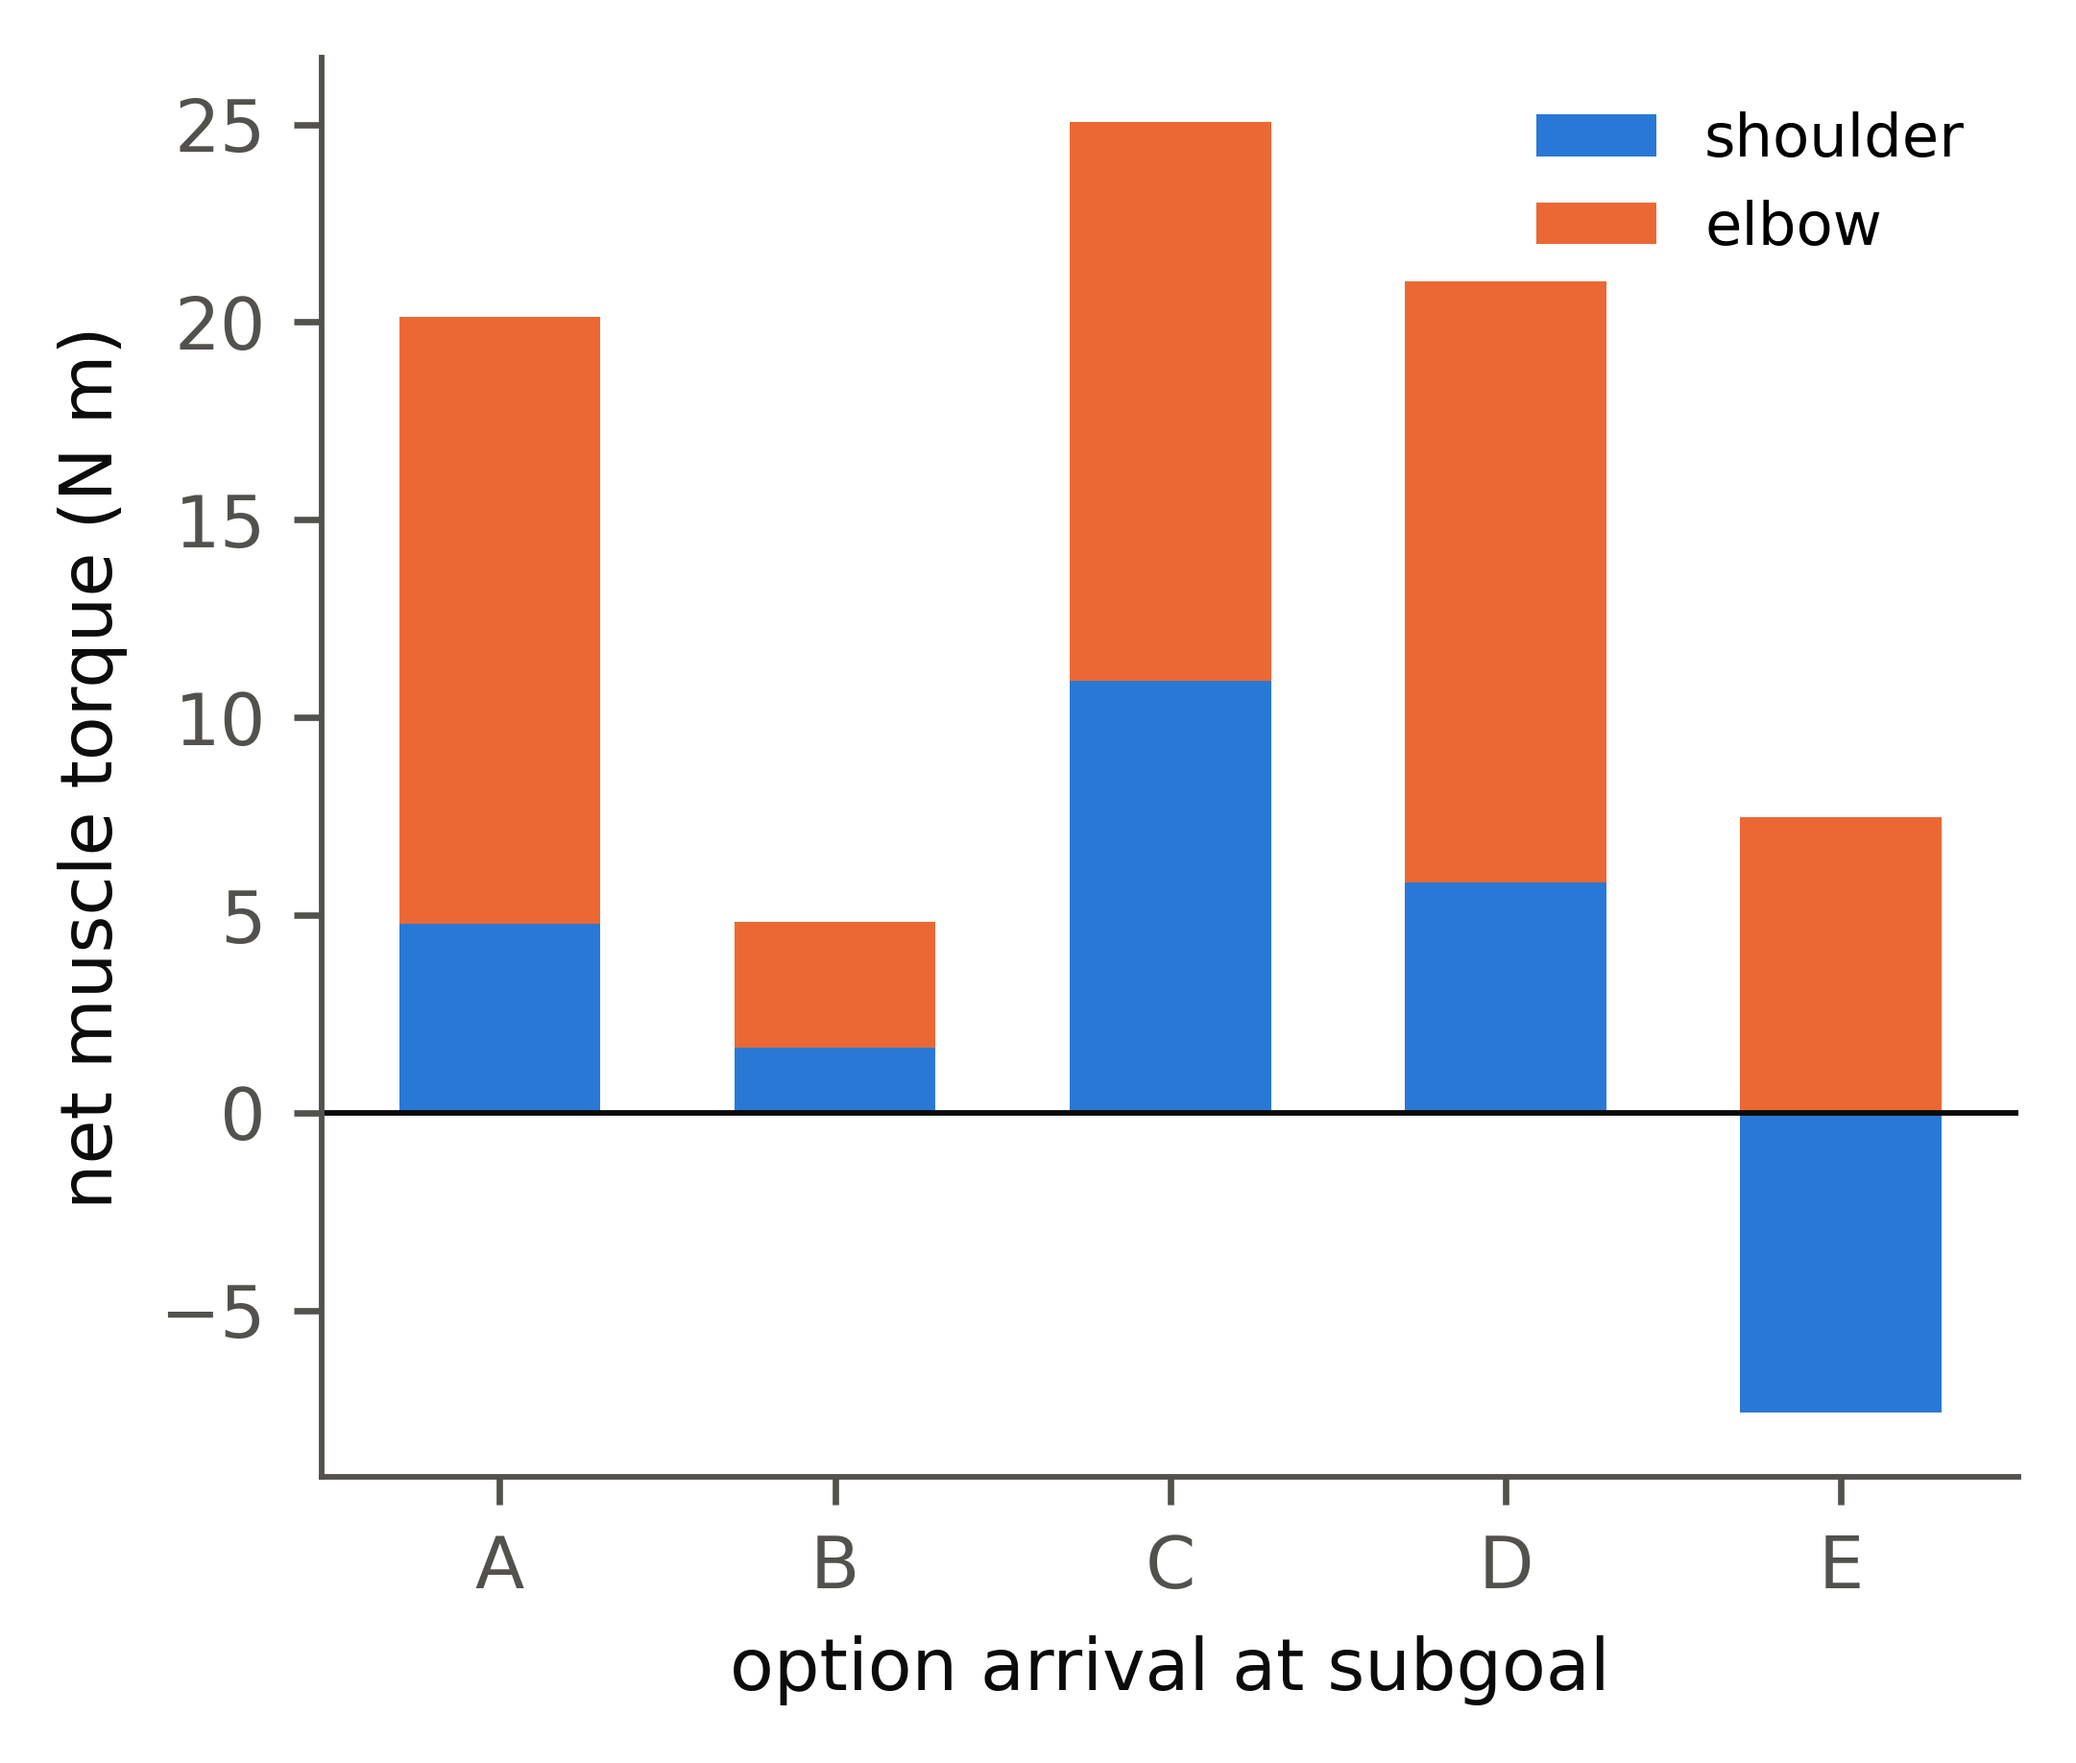
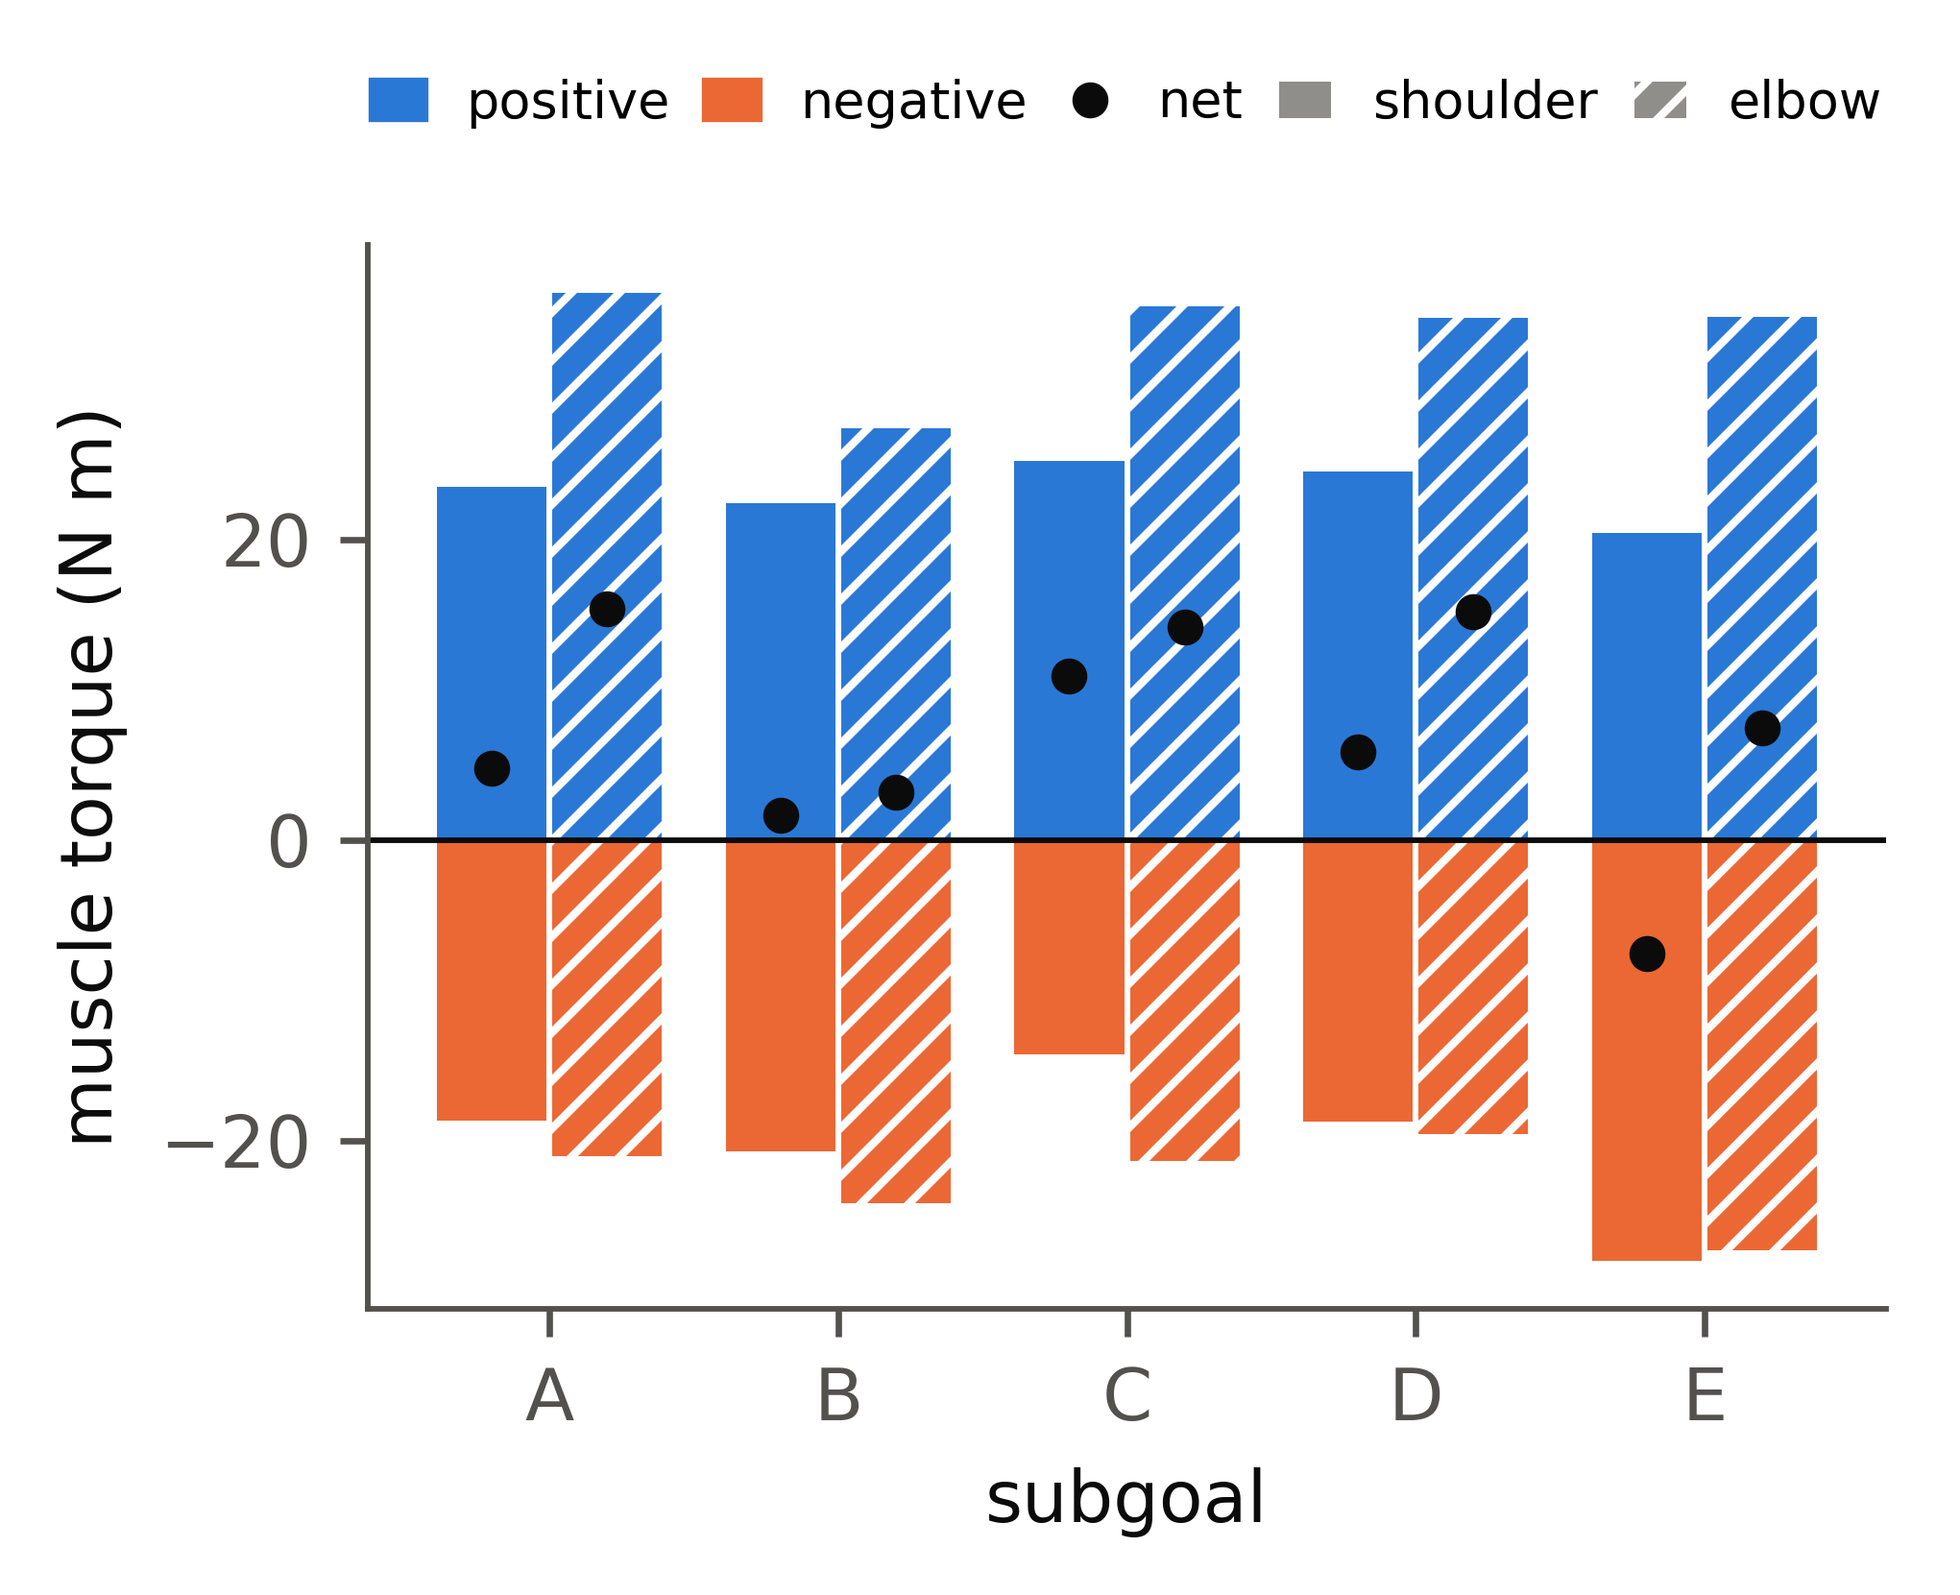
added new torque pictures

diff --git a/scripts/make_figures.py b/scripts/make_figures.py
@@ -133,7 +133,7 @@ def fig_subgoal_torque():
             ax.plot(i, torque[n]['net'][j], 'o', color=INK, ms=4.5, zorder=4, label='net muscle torque' if i == 0 else None)
         ax.axhline(0, color=INK, lw=.7)
         ax.set_xticks(range(len(names)), names)
-        ax.set_xlabel('option arrival at subgoal')
+        ax.set_xlabel('subgoal')
         ax.set_title(joint, fontsize=9)
     axes[0].set_ylabel('muscle torque (N m)')
     handles, labels = axes[0].get_legend_handles_labels()
@@ -145,16 +145,46 @@ def fig_subgoal_torque():
 def fig_subgoal_net_torque():
     torque = muscles['torque']
     names = list(torque)
-    shoulder, elbow = np.array([torque[n]['net'] for n in names]).T
-    fig, ax = plt.subplots(figsize=(3.8, 3.2))
-    ax.bar(names, shoulder, .6, color=BLUE, label='shoulder')
-    # stack elbow on shoulder only when signs match, else from zero, so negative parts stay below the axis
-    ax.bar(names, elbow, .6, bottom=np.where(np.sign(shoulder) == np.sign(elbow), shoulder, 0), color=ORANGE, label='elbow')
+    x = np.arange(len(names))
+    fig, ax = plt.subplots(figsize=(3.4, 2.4))
+    for j, (dx, hatch) in enumerate(((-.2, None), (.2, '////'))):
+        get = lambda k: np.array([torque[n][k][j] for n in names])
+        ax.bar(x + dx, get('positive'), .38, color=BLUE, hatch=hatch, edgecolor='white', lw=0)
+        ax.bar(x + dx, get('negative'), .38, color=ORANGE, hatch=hatch, edgecolor='white', lw=0)
+        ax.plot(x + dx, get('net'), 'o', color=INK, ms=3.5, zorder=4)
     ax.axhline(0, color=INK, lw=.7)
-    ax.set_xlabel('option arrival at subgoal')
-    ax.set_ylabel('net muscle torque (N m)')
-    ax.legend(fontsize=7.5)
+    ax.set_xticks(x, names)
+    ax.set_xlabel('subgoal')
+    ax.set_ylabel('muscle torque (N m)')
+    handles = [plt.Rectangle((0, 0), 1, 1, color=BLUE), plt.Rectangle((0, 0), 1, 1, color=ORANGE),
+               plt.Line2D([], [], marker='o', color=INK, ls='', ms=3.5),
+               plt.Rectangle((0, 0), 1, 1, fc=GREY), plt.Rectangle((0, 0), 1, 1, fc=GREY, hatch='////', ec='white', lw=0)]
+    ax.legend(handles, ['positive', 'negative', 'net', 'shoulder', 'elbow'], loc='upper center', bbox_to_anchor=(.5, 1.2),
+              ncol=5, fontsize=6.5, handlelength=1, columnspacing=.7)
     save(fig, 'subgoal_net_torque')
+
+
+def fig_torque_cancellation():
+    torque = muscles['torque']
+    names = list(torque)
+    x = np.arange(len(names))
+    fig, ax = plt.subplots(figsize=(3.2, 2.2))
+    for j, (dx, color, joint) in enumerate(((-.2, BLUE, 'shoulder'), (.2, ORANGE, 'elbow'))):
+        t = {k: np.array([torque[n][k][j] for n in names]) for k in ('positive', 'negative', 'net')}
+        total, net = t['positive'] - t['negative'], np.abs(t['net'])
+        ax.bar(x + dx, total, .38, color=color, alpha=.3)
+        ax.bar(x + dx, net, .38, color=color, label=joint)
+        for xi, tot, n in zip(x + dx, total, net):
+            ax.text(xi, tot + 1, f'{1 - n / tot:.0%}', ha='center', fontsize=5, color=INK)
+    ax.set_xticks(x, names)
+    ax.set_ylim(0, 75)
+    ax.set_xlabel('subgoal')
+    ax.set_ylabel('muscle torque (N m)')
+    handles, labels = ax.get_legend_handles_labels()
+    handles.append(plt.Rectangle((0, 0), 1, 1, fc=GREY, alpha=.3))
+    ax.legend(handles, ['shoulder |net|', 'elbow |net|', 'cancelled (%)'], loc='upper center', bbox_to_anchor=(.5, 1.22),
+              ncol=3, fontsize=6.5, handlelength=1, columnspacing=.8)
+    save(fig, 'torque_cancellation')
 
 
 def fig_independent_agent():
@@ -331,7 +361,7 @@ def fig_muscle_patterns():
 
 
 if __name__ == '__main__':
-    for make in (fig_transfer, fig_transfer_detail, fig_completion_time, fig_subgoal_torque, fig_subgoal_net_torque, fig_independent_agent,
+    for make in (fig_transfer, fig_transfer_detail, fig_completion_time, fig_subgoal_torque, fig_subgoal_net_torque, fig_torque_cancellation, fig_independent_agent,
                  fig_horizon_across_systems, fig_tempo, fig_robustness, fig_humans_onsets, fig_humans_transitions,
                  fig_muscle_patterns):
         make()
